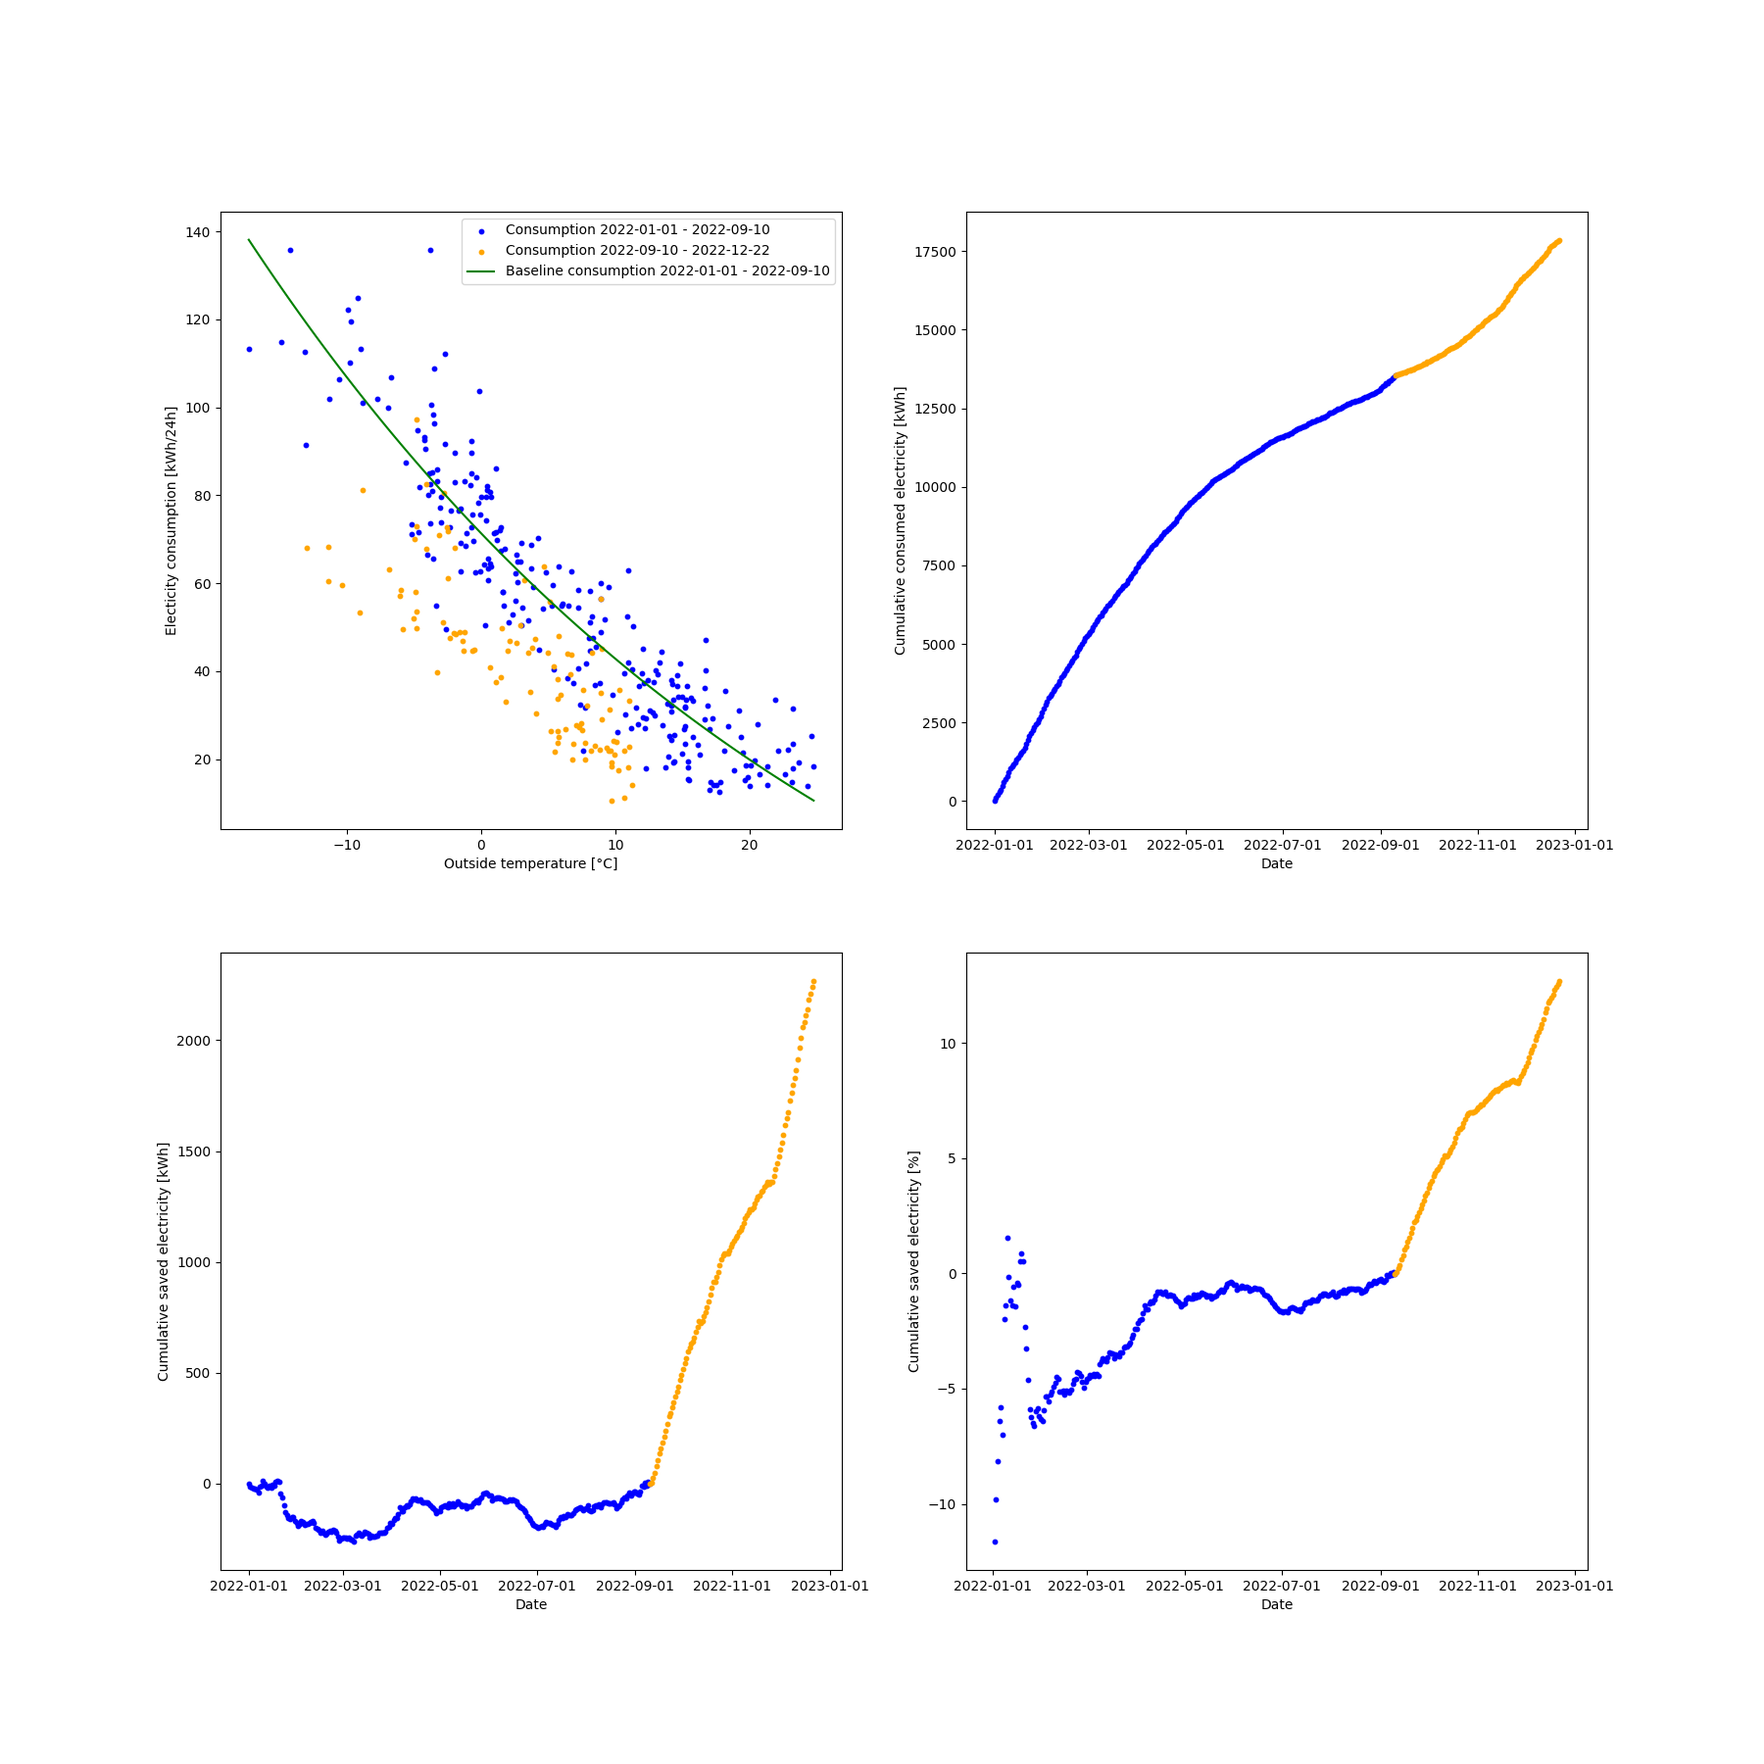
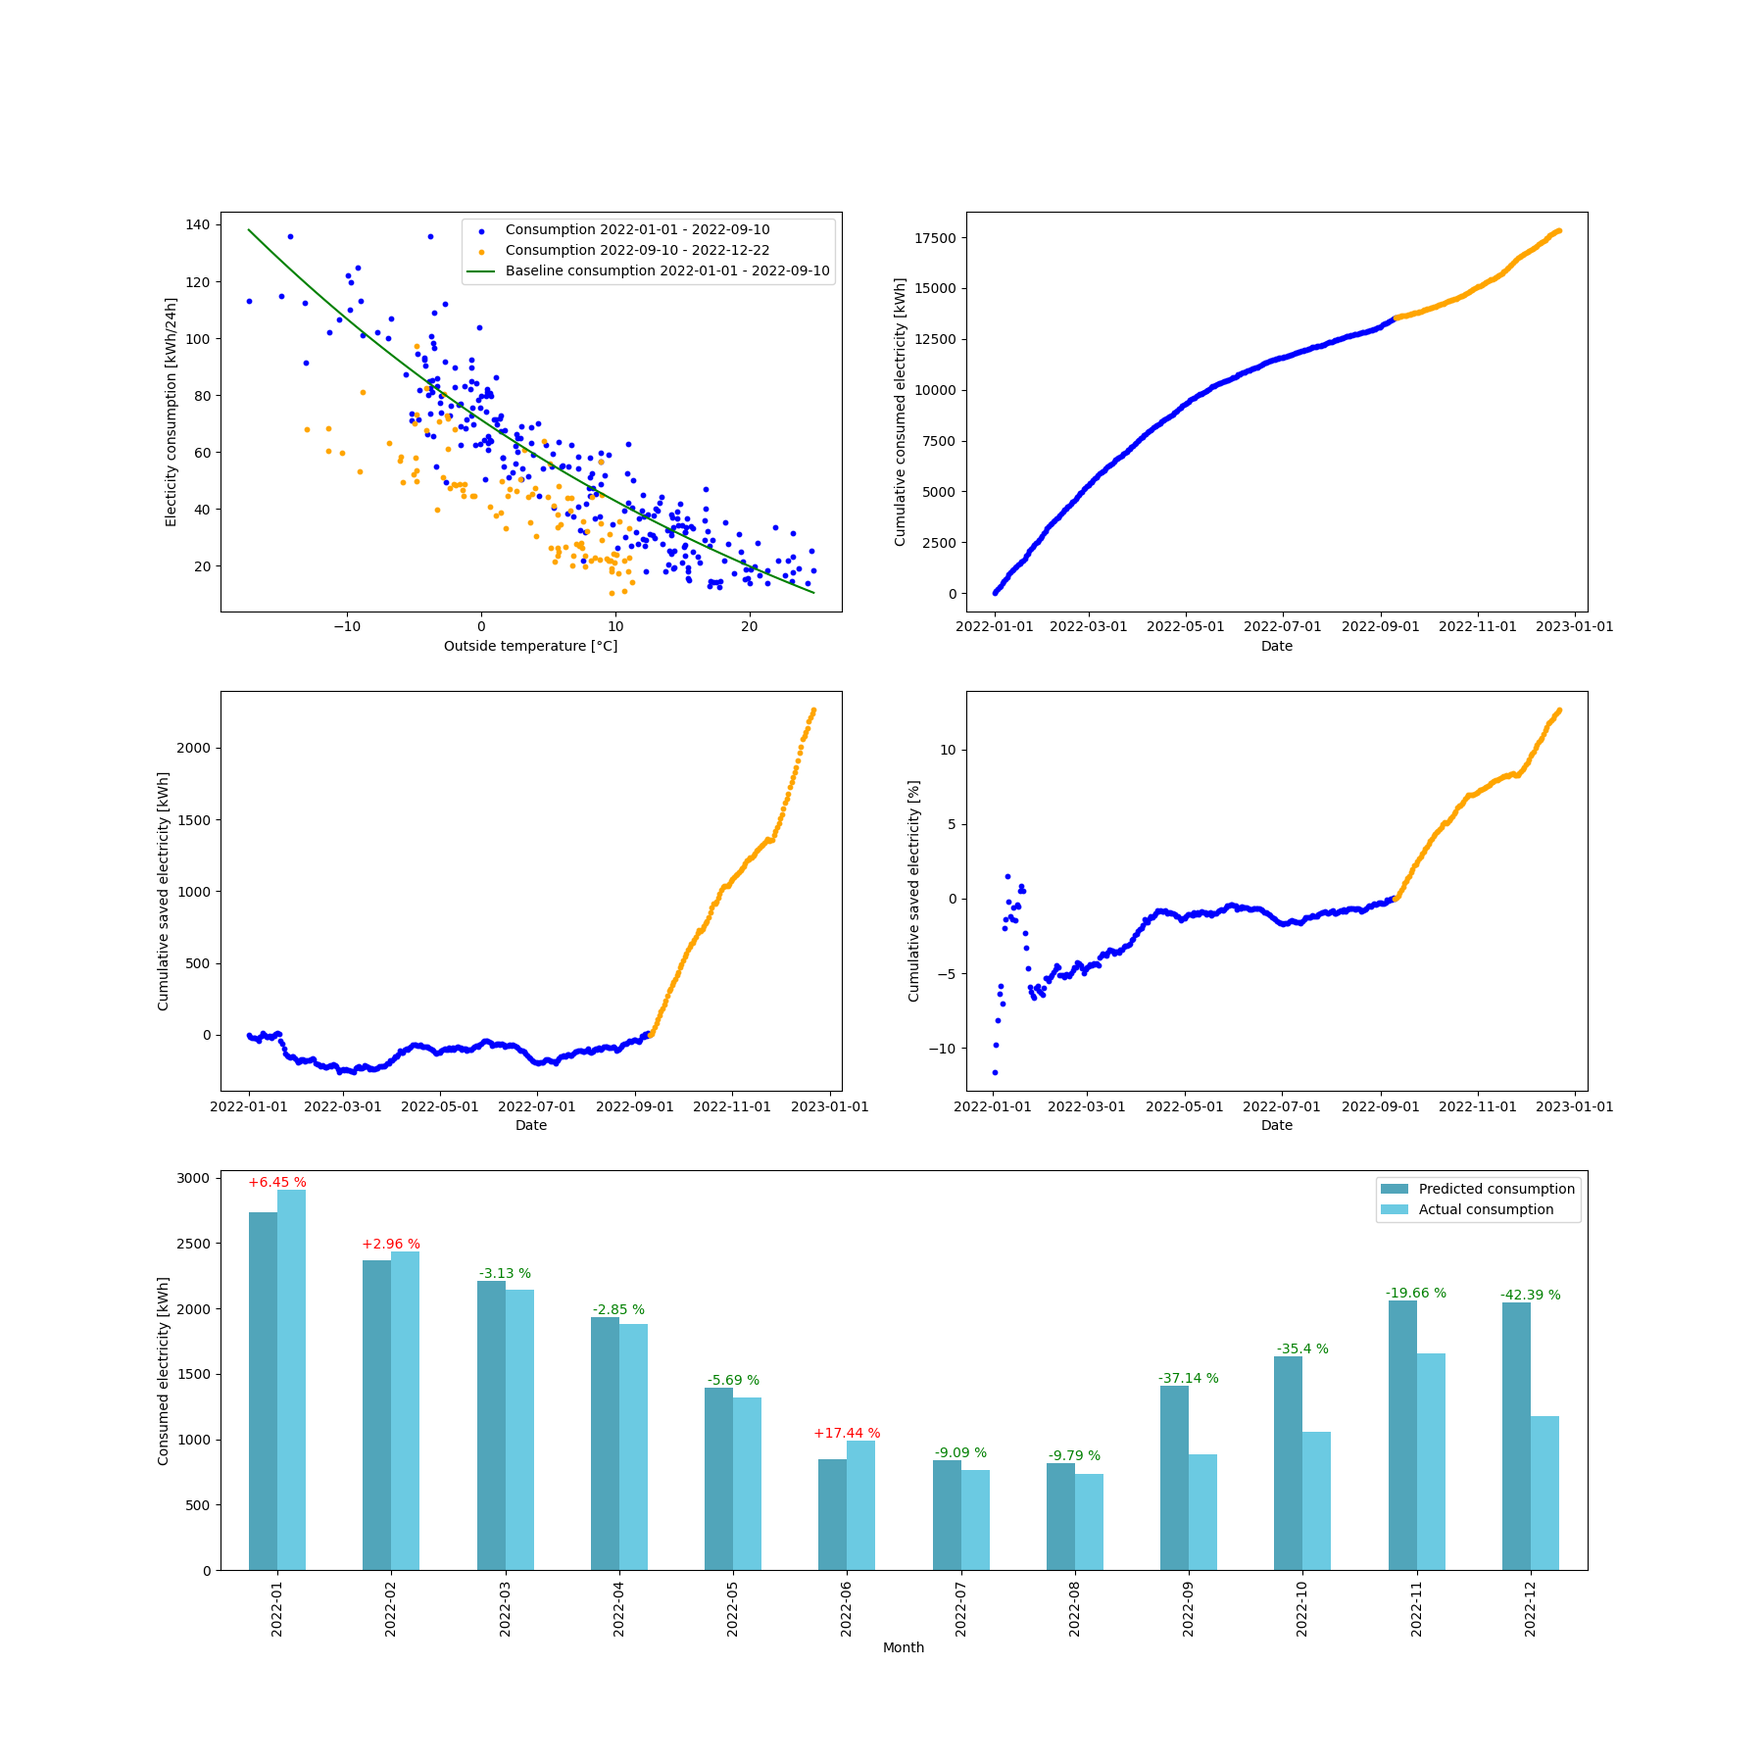
0-1-0 Monthly barchart and tests (#2)
* black formatting

* formatting

* + monthly barchart

* +monthly barchart

* tests

* +example output

* about running the tests

* 3.6 -> 3.9

* 0-1-0

diff --git a/src/how_much_electricity_saved/main.py b/src/how_much_electricity_saved/main.py
@@ -30,6 +30,10 @@ class bind(partial):
 class ElectricityConsumptionReport:
 
     required_dataframe_columns = ["time", "consumption", "temperature"]
+    COLORS = {
+        "predicted": "#51A5BA",
+        "actual": "#6BCAE2",
+    }
 
     def __init__(
         self,
@@ -83,6 +87,7 @@ class ElectricityConsumptionReport:
         self.baseline_df = None
         self.fitting_function_coefficients = None
         self.covariance_matrix = None
+        self.monthly_df = None
 
         self.dot_size = dot_size
         if _preprocess_at_init:
@@ -96,35 +101,46 @@ class ElectricityConsumptionReport:
         self.df_raw["date"] = self.df_raw["time"].dt.date
 
         # Group the data by date and calculate the sum of the hourly_consumption and the average of the outside_temperature
-        self.df = self.df_raw.groupby("date").agg(
-            {"consumption": "sum", "temperature": "mean"}
-        )
+        self.df = self.df_raw.groupby("date").agg({"consumption": "sum", "temperature": "mean"})
 
         if self.dateranges_to_group_to is None:
             # use the whole date range as the default group
-            self.dateranges_to_group_to = [
-                DateRange(self.df.index.min(), self.df.index.max())
-            ]
+            self.dateranges_to_group_to = [DateRange(self.df.index.min(), self.df.index.max())]
 
-        self.baseline_df = self.apply_daterange(
-            self.df, date_range=self.baseline_period
-        )
+        self.baseline_df = self.apply_daterange(self.df, date_range=self.baseline_period)
         self._fit_function_to_baseline_period()
 
         fitted_function = bind(
-            self.fitting_function, ..., *self.fitting_function_coefficients
+            self.fitting_function,
+            ...,
+            *self.fitting_function_coefficients,
         )
         self.df["baseline_consumption"] = self.df["temperature"].apply(fitted_function)
         self.df["saved_daily_consumption"] = self.df.apply(
-            lambda row: row["baseline_consumption"] - row["consumption"], axis=1
+            lambda row: row["baseline_consumption"] - row["consumption"],
+            axis=1,
         )
-        self.df["cumulative_consumption"] = self.df[
-            "consumption"
-        ].cumsum()
+        self.df["cumulative_consumption"] = self.df["consumption"].cumsum()
+        self.df["cumulative_predicted_consumption"] = self.df["baseline_consumption"].cumsum()
 
-        self.df["saved_cumulative_consumption"] = self.df[
-            "saved_daily_consumption"
-        ].cumsum()
+        self.df["saved_cumulative_consumption"] = self.df["saved_daily_consumption"].cumsum()
+
+        # create a new column "month" so that a new monthly aggregated dataframe can be added
+        self.df["month"] = self.df.index
+        # Convert to datetime
+        self.df["month"] = pd.to_datetime(self.df["month"])
+        # format to string YYYY-mm
+        self.df["month"] = self.df["month"].dt.strftime("%Y-%m")
+
+        # Create a new dataframe with monthly aggregated data
+        self.monthly_df = self.df.groupby("month").agg(
+            {
+                "consumption": "sum",
+                "baseline_consumption": "sum",
+                "temperature": "mean",
+            }
+        )
+        self.monthly_df["month"] = self.monthly_df.index
 
     @staticmethod
     def apply_daterange(df, date_range: DateRange) -> pd.DataFrame:
@@ -166,9 +182,7 @@ class ElectricityConsumptionReport:
             self.fitting_function(temperature_x, *self.fitting_function_coefficients),
             color="green",
         )
-        legend.append(
-            f"Baseline consumption {self.baseline_period.begin} - {self.baseline_period.end}"
-        )
+        legend.append(f"Baseline consumption {self.baseline_period.begin} - {self.baseline_period.end}")
 
         ax.legend(legend)
 
@@ -178,17 +192,17 @@ class ElectricityConsumptionReport:
         ax.set_ylabel("Cumulative saved electricity [kWh]")
         ax.xaxis.set_major_formatter(mdates.DateFormatter("%Y-%m-%d"))
 
-        begin_date = self.apply_daterange(self.df, date_range=self.dateranges_to_group_to[0]).index[0]
+        begin_date = self.apply_daterange(
+            self.df,
+            date_range=self.dateranges_to_group_to[0],
+        ).index[0]
         initial_saved_cumulative_consumption = self.df["saved_cumulative_consumption"][begin_date]
 
         legend = []
         for date_range in self.dateranges_to_group_to:
             df_daterange = self.apply_daterange(self.df, date_range=date_range)
             x_data = df_daterange.index
-            y_data = (
-                df_daterange["saved_cumulative_consumption"]
-                - initial_saved_cumulative_consumption
-            )
+            y_data = df_daterange["saved_cumulative_consumption"] - initial_saved_cumulative_consumption
             ax.scatter(x_data, y_data, s=self.dot_size, color=date_range.color)
             legend.append(
                 f"Cumulative saved electricity compared to baseline [kWh] {date_range.begin} - {date_range.end}"
@@ -200,7 +214,10 @@ class ElectricityConsumptionReport:
         ax.set_ylabel("Cumulative saved electricity [%]")
         ax.xaxis.set_major_formatter(mdates.DateFormatter("%Y-%m-%d"))
 
-        begin_date = self.apply_daterange(self.df, date_range=self.dateranges_to_group_to[0]).index[0]
+        begin_date = self.apply_daterange(
+            self.df,
+            date_range=self.dateranges_to_group_to[0],
+        ).index[0]
         initial_cumulative_consumption = self.df["cumulative_consumption"][begin_date]
         initial_saved_cumulative_consumption = self.df["saved_cumulative_consumption"][begin_date]
 
@@ -209,11 +226,8 @@ class ElectricityConsumptionReport:
             df_daterange = self.apply_daterange(self.df, date_range=date_range)
             x_data = df_daterange.index
             y_data = (
-                (df_daterange["saved_cumulative_consumption"]
-                - initial_saved_cumulative_consumption )
-                /
-                (df_daterange["cumulative_consumption"]
-                - initial_cumulative_consumption )
+                (df_daterange["saved_cumulative_consumption"] - initial_saved_cumulative_consumption)
+                / (df_daterange["cumulative_consumption"] - initial_cumulative_consumption)
                 * 100
             )
             ax.scatter(x_data, y_data, s=self.dot_size, color=date_range.color)
@@ -227,18 +241,56 @@ class ElectricityConsumptionReport:
         ax.set_ylabel("Cumulative consumed electricity [kWh]")
         ax.xaxis.set_major_formatter(mdates.DateFormatter("%Y-%m-%d"))
 
-        begin_date = self.apply_daterange(self.df, date_range=self.dateranges_to_group_to[0]).index[0]
+        begin_date = self.apply_daterange(
+            self.df,
+            date_range=self.dateranges_to_group_to[0],
+        ).index[0]
         initial_cumulative_consumption = self.df["cumulative_consumption"][begin_date]
 
         legend = []
         for date_range in self.dateranges_to_group_to:
             df_daterange = self.apply_daterange(self.df, date_range=date_range)
             x_data = df_daterange.index
-            y_data = (
-                df_daterange["cumulative_consumption"]
-                - initial_cumulative_consumption 
-            )
+            y_data = df_daterange["cumulative_consumption"] - initial_cumulative_consumption
             ax.scatter(x_data, y_data, s=self.dot_size, color=date_range.color)
-            legend.append(
-                f"Cumulative consumed electricity [kWh] {date_range.begin} - {date_range.end}"
+            legend.append(f"Cumulative consumed electricity [kWh] {date_range.begin} - {date_range.end}")
+
+    def create_plot_monthly_bar_chart(self, ax: plt.axes):
+        """
+        Visualize monthly predicted consumption vs actual consumption as a bar chart
+        """
+        self.monthly_df.plot.bar(
+            x="month",
+            y=["baseline_consumption", "consumption"],
+            ax=ax,
+            color=[
+                self.COLORS["predicted"],
+                self.COLORS["actual"],
+            ],
+        )
+        # ax.xaxis.set_major_formatter(mdates.DateFormatter("%Y-%m"))
+        ax.legend(["Predicted consumption", "Actual consumption"])
+        ax.set_xlabel("Month")
+        ax.set_ylabel("Consumed electricity [kWh]")
+
+        patches_len = len(ax.patches)
+        for i, bar in enumerate(ax.patches[patches_len // 2 :]):
+            # get the x and y coordinates of the bar
+            x = bar.get_x()
+            baseline_consumption = self.monthly_df["baseline_consumption"][i]
+            consumption = self.monthly_df["consumption"][i]
+            reduction = round(100 * -(baseline_consumption - consumption) / baseline_consumption, 2)
+
+            sign = ""
+            if reduction >= 0:
+                sign = "+"
+            sign = "+" if reduction >= 0 else ""
+            color = "red" if reduction > 0 else "green"
+            ax.text(
+                x,
+                max([baseline_consumption, consumption]),
+                f"{sign}{reduction} %",
+                ha="center",
+                va="bottom",
+                color=color,
             )

diff --git a/tests/test_main.py b/tests/test_main.py
@@ -1,0 +1,83 @@
+import datetime
+
+import pandas as pd
+import pytest
+
+from how_much_electricity_saved import fitting_functions
+from how_much_electricity_saved.date_range import DateRange
+from how_much_electricity_saved.main import ElectricityConsumptionReport
+
+
+@pytest.fixture
+def sample_report() -> ElectricityConsumptionReport:
+    data = {
+        "time": [
+            "2022-01-01 00:00:00",
+            "2022-01-02 00:00:00",
+            "2022-01-03 00:00:00",
+        ],
+        "consumption": [
+            10,
+            9,
+            8,
+        ],
+        "temperature": [1, 2, 3],
+    }
+    df = pd.DataFrame(data)
+
+    df["time"] = pd.to_datetime(df["time"], format="%Y-%m-%d %H:%M:%S")
+
+    report = ElectricityConsumptionReport(
+        dataframe=df,
+        baseline_period=DateRange(begin="2022-01-01", end="2022-02-01"),
+        fitting_function=fitting_functions.fitting_func_linear,
+    )
+    return report
+
+
+def test_init(sample_report: ElectricityConsumptionReport):
+
+    assert "consumption" in sample_report.df.columns
+    assert "temperature" in sample_report.df.columns
+    assert sample_report.baseline_period.begin == datetime.date(2022, 1, 1)
+    assert sample_report.baseline_period.end == datetime.date(2022, 2, 1)
+    assert sample_report.fitting_function == fitting_functions.fitting_func_linear
+
+
+@pytest.mark.parametrize(
+    "required_col",
+    [
+        "baseline_consumption",
+        "saved_daily_consumption",
+        "cumulative_consumption",
+        "cumulative_predicted_consumption",
+        "saved_cumulative_consumption",
+        "month",
+    ],
+)
+def test_preprocess_assert_df_columns(sample_report: ElectricityConsumptionReport, required_col):
+    assert required_col in sample_report.df.columns
+
+
+@pytest.mark.parametrize(
+    "required_col",
+    [
+        "consumption",
+        "baseline_consumption",
+        "temperature",
+        "month",
+    ],
+)
+def test_preprocess_assert_monthly_df_columns(sample_report: ElectricityConsumptionReport, required_col):
+    assert required_col in sample_report.monthly_df.columns
+
+
+@pytest.mark.parametrize(
+    "required_col",
+    [
+        "consumption",
+        "temperature",
+    ],
+)
+def test_preprocess_assert_baseline_df_columns(sample_report: ElectricityConsumptionReport, required_col):
+    assert required_col in sample_report.baseline_df.columns

diff --git a/examples/example.py b/examples/example.py
@@ -11,14 +11,14 @@ def main():
     df = pd.read_csv("examples/sample_daily_consumption.csv")
 
     # Convert the time column to datetime
-    df["time"] = pd.to_datetime(df["time"], format='%Y-%m-%d %H:%M:%S')
+    df["time"] = pd.to_datetime(df["time"], format="%Y-%m-%d %H:%M:%S")
     fitting_func = fitting_functions.fitting_func_exp
 
     report = ElectricityConsumptionReport(
         dataframe=df,
         baseline_period=DateRange(begin="2022-01-01", end="2022-09-10"),
         fitting_function=fitting_func,
-        initial_guess=(1,-1,1),
+        initial_guess=(1, -1, 1),
         dateranges_to_group_to=[
             DateRange(begin="2022-01-01", end="2022-09-10", color="blue"),
             DateRange(begin="2022-09-10", end="2022-12-22", color="orange"),
@@ -27,18 +27,19 @@ def main():
     )
 
     fig = plt.figure(figsize=(18, 18))
-    ax1 = fig.add_subplot(221)
-    ax2 = fig.add_subplot(222)
-    ax3 = fig.add_subplot(223)
-    ax4 = fig.add_subplot(224)
+    ax1 = fig.add_subplot(321)
+    ax2 = fig.add_subplot(322)
+    ax3 = fig.add_subplot(323)
+    ax4 = fig.add_subplot(324)
+    ax5 = fig.add_subplot(313)
 
     report.create_scatter_plot_total(ax=ax1)
     report.create_plot_cumnulative_consumed_electricity(ax=ax2)
     report.create_plot_cumnulative_saved_electricity_vs_time(ax=ax3)
     report.create_plot_cumnulative_saved_electricity_percents(ax=ax4)
+    report.create_plot_monthly_bar_chart(ax=ax5)
 
     fig.savefig("examples/example_output.png")
-    fig.show()
 
 
 if __name__ == "__main__":

diff --git a/src/how_much_electricity_saved/fitting_functions.py b/src/how_much_electricity_saved/fitting_functions.py
@@ -30,6 +30,7 @@ def fitting_func_poly4(
 ) -> float:
     return a * x**4 + b * x**3 + c * x**2 + d * x + e
 
+
 def fitting_func_linear(
     x: float,
     a: float,

diff --git a/README.md b/README.md
@@ -1,6 +1,9 @@
 # how-much-electricity-saved
 Estimate how much electricity has been saved compared to baseline consumption. The typical electricity consumption as a function of outside temperature is first estimated by fitting a function to the data during a baseline period. The baseline period should extend over a wide range of temperatures. The heat loss of a house has not been modelled in this package. A list of fitting functions are provided that might fit the consumption data or not. An exponential function is used in the example. This will give a too low baseline consumption during summer time, but a reasonably good fit during colder times.
 
+Example output:
+![](examples/example_output.png)
+
 ## Usage
 
 Create a virtual environment and install dependencies. In Linux or WSL:
@@ -25,6 +28,18 @@ $ pip install -e .
 Install development dependencies as well if you are going to make changes to the code
 ```
 $ pip install -r requirements-development.txt
+```
+
+## Running tests
+
+The tests for this project are written with pytest. To run the tests, make sure that the dev dependencies are installed:
+
+```sh
+$ pip install -r requirements-development.txt 
+```
+And then run the tests with the following command:
+```sh
+$ pytest -v
 ```
 
 ## Example

diff --git a/CHANGELOG.md b/CHANGELOG.md
@@ -5,6 +5,17 @@ All notable changes to this project will be documented in this file.
 The format is based on [Keep a Changelog](https://keepachangelog.com/en/1.0.0/),
 and this project adheres to [Semantic Versioning](https://semver.org/spec/v2.0.0.html).
 
+## [0.1.0] - 2023-01-22
+
+### Added
+
+- Added a function for creating a monthly bar chart graph of the electricity consumption
+- Added some tests
+
+### Changed
+
+- Changed the required version of Python from 3.6 to 3.9 in setup.cfg, because I have only tested this with 3.9 and 3.11. I'll not make any promises for earlier versions.
+
 ## [0.0.1] - 2022-12-30
 
 ### Added
